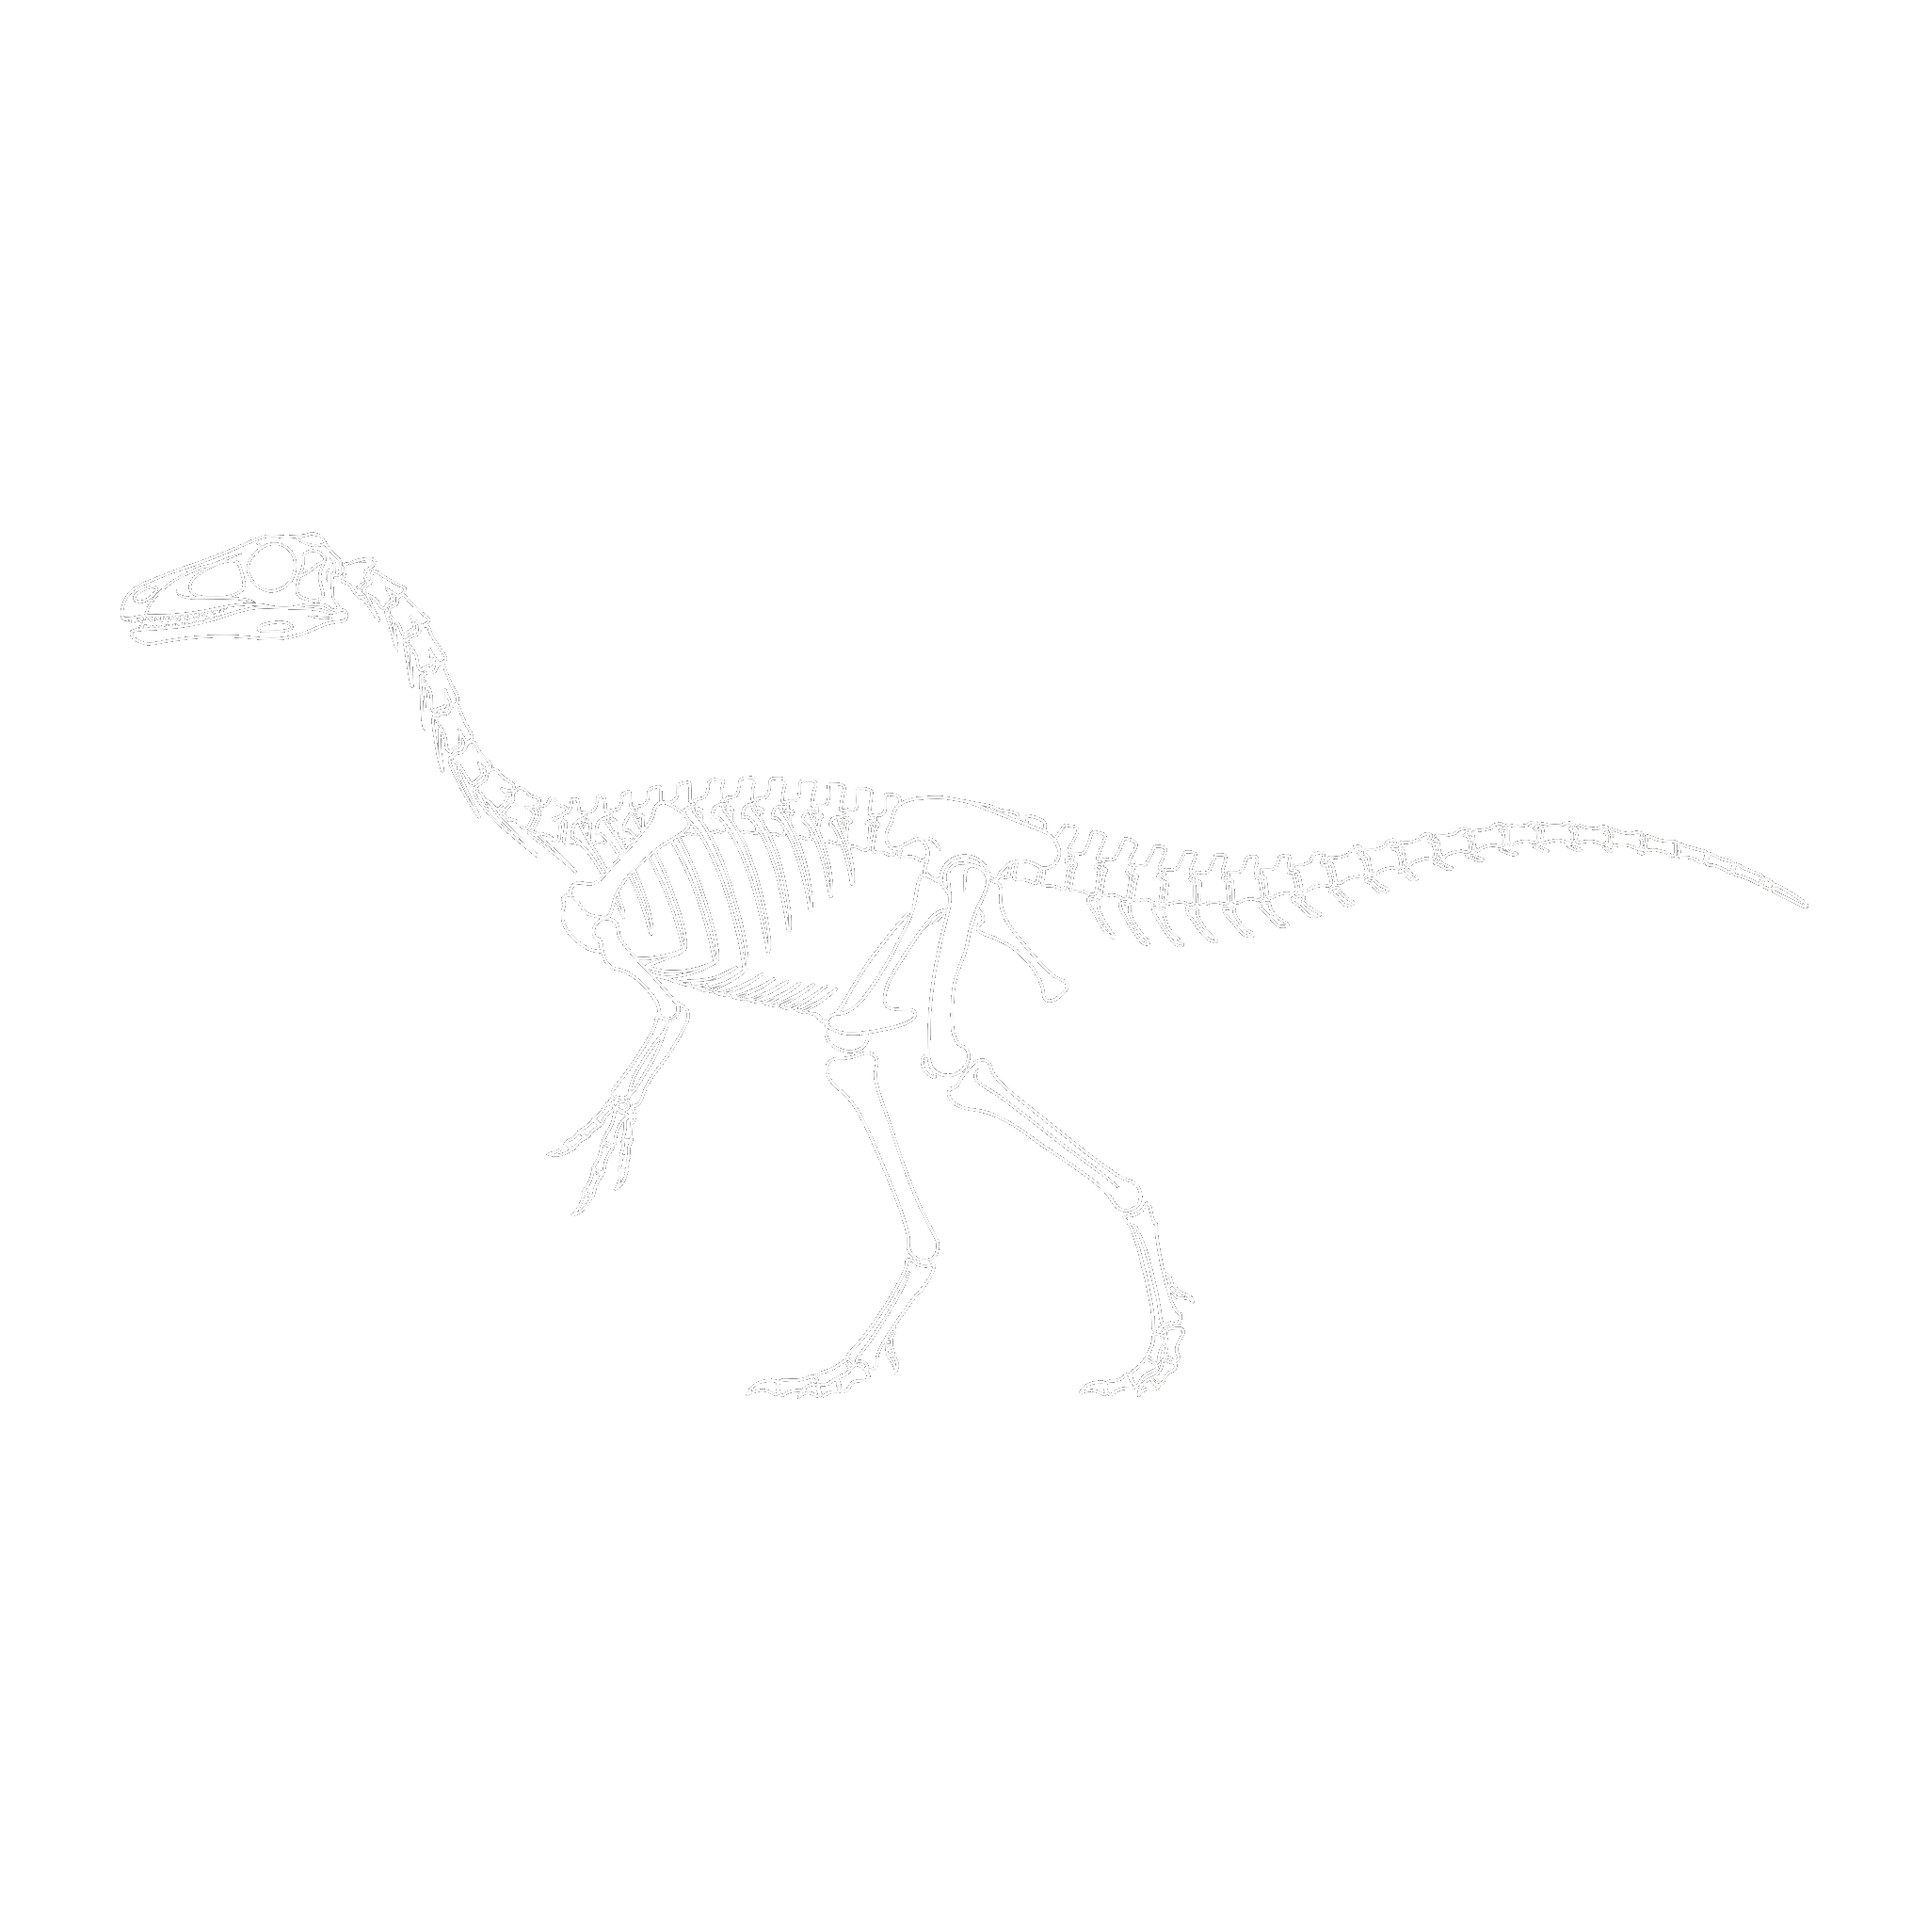
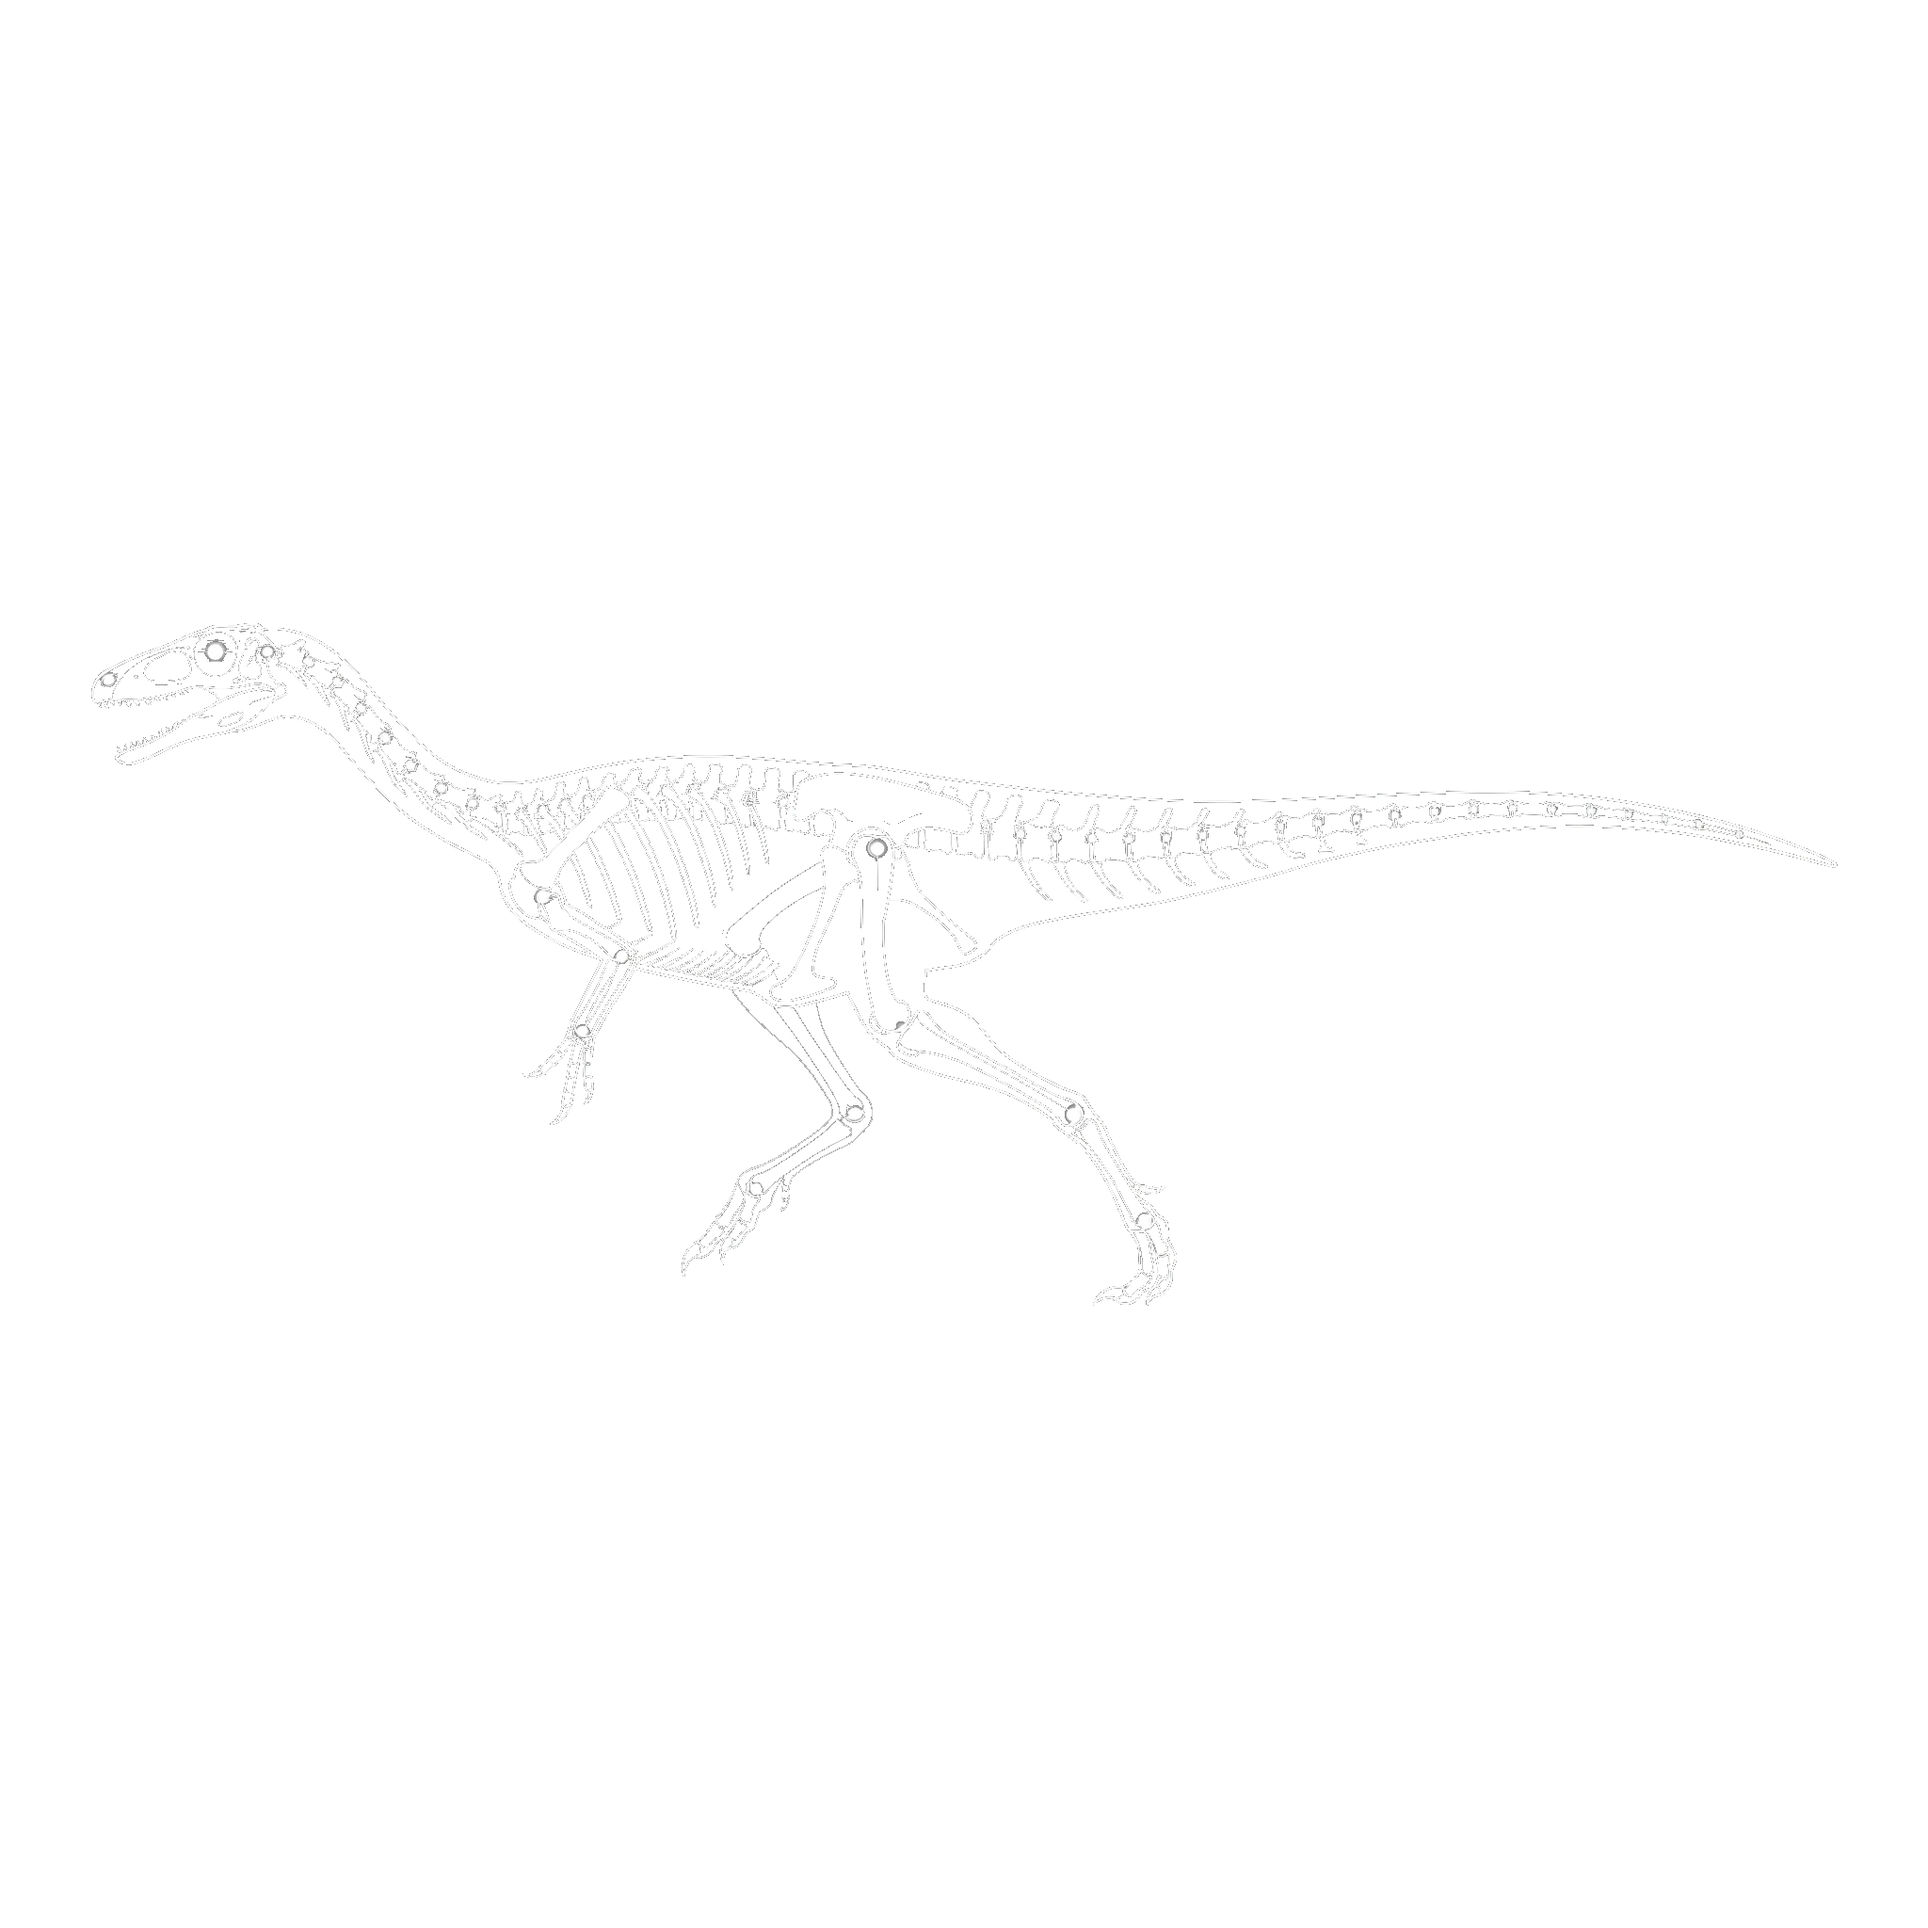
feat: Replace cyber skeleton assets for Timimus, Elaphrosaurus, and Prenocephale with new horizontal forward-leaning versions

diff --git a/src/content/dinosaurs/shamosaurus.md b/src/content/dinosaurs/shamosaurus.md
@@ -25,7 +25,6 @@ cyberMetadata:
   contentHeightPx: 598
   sourceRes: 2048
   zoom: 1.35
-  dinoLeft: "2"
 ---
 
 白亜紀前期（約1億2000万年前）のアジア（ゴビ砂漠など）に生息していたアンキロサウルス科の装甲竜。全長約5m。名前はゴビ砂漠を意味する中国語「沙漠（シャモ）」に由来する。後のアンキロサウルスに見られるような「尾のクラブ（ハンマー）」はまだ小さく原始的だったが、体表を覆う骨質のスパイクとプレートは極めて堅牢であり、天敵の肉食恐竜からの攻撃を完全に防いでいたとされる。

diff --git a/src/content/dinosaurs/prenocephale.md b/src/content/dinosaurs/prenocephale.md
@@ -19,10 +19,10 @@ bioTraits:
     value: "儀式的頭突き闘争"
     detail: "首の筋肉と背骨が頭突き時の衝撃を逃がすように強固に連結しており、群れの中での繁殖権や順位争いのために頭をぶつけ合ったとされる"
 cyberMetadata:
-  bottomGap: 527
+  bottomGap: 690
   realHeight: 0.8
   realLength: 2.4
-  contentHeightPx: 996
+  contentHeightPx: 670
   sourceRes: 2048
   zoom: 1.5
 ---

diff --git a/src/content/dinosaurs/elaphrosaurus.md b/src/content/dinosaurs/elaphrosaurus.md
@@ -19,10 +19,10 @@ bioTraits:
     value: "食性の変化"
     detail: "幼体には鋭い歯があったが、成長すると歯が抜け落ちてクチバシになり、植物食や昆虫食へ移行した可能性が指摘されている"
 cyberMetadata:
-  bottomGap: 563
+  bottomGap: 662
   realHeight: 1.8
   realLength: 6.2
-  contentHeightPx: 920
+  contentHeightPx: 724
   sourceRes: 2048
   zoom: 1.35
 ---

diff --git a/src/content/dinosaurs/timimus.md b/src/content/dinosaurs/timimus.md
@@ -19,10 +19,10 @@ bioTraits:
     value: "スマートな二足歩行"
     detail: "ダチョウ型恐竜（オルニトミモサウルス類）に類似した長い脚を持ち、極地林を高速で走り抜けた"
 cyberMetadata:
-  bottomGap: 544
+  bottomGap: 650
   realHeight: 1
   realLength: 3
-  contentHeightPx: 961
+  contentHeightPx: 687
   sourceRes: 2048
   zoom: 1.5
 ---
